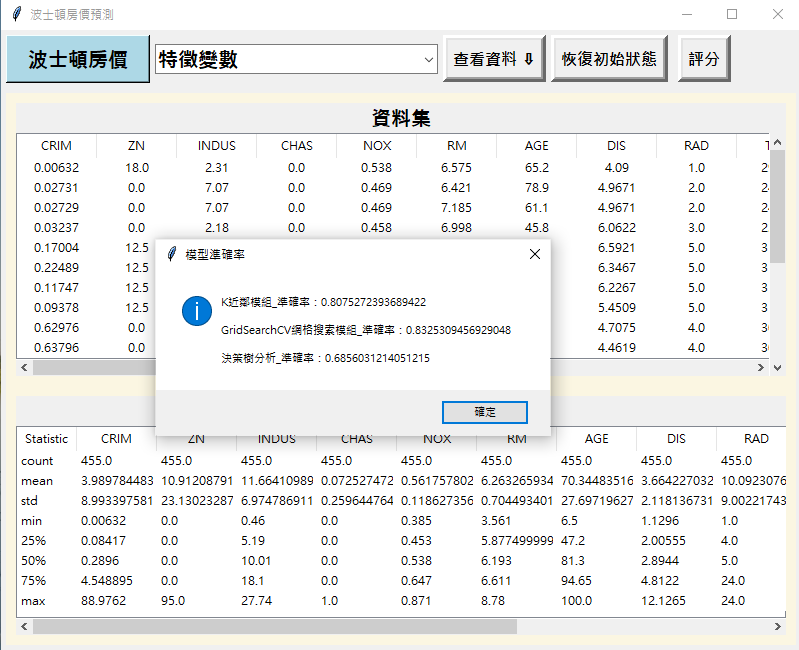
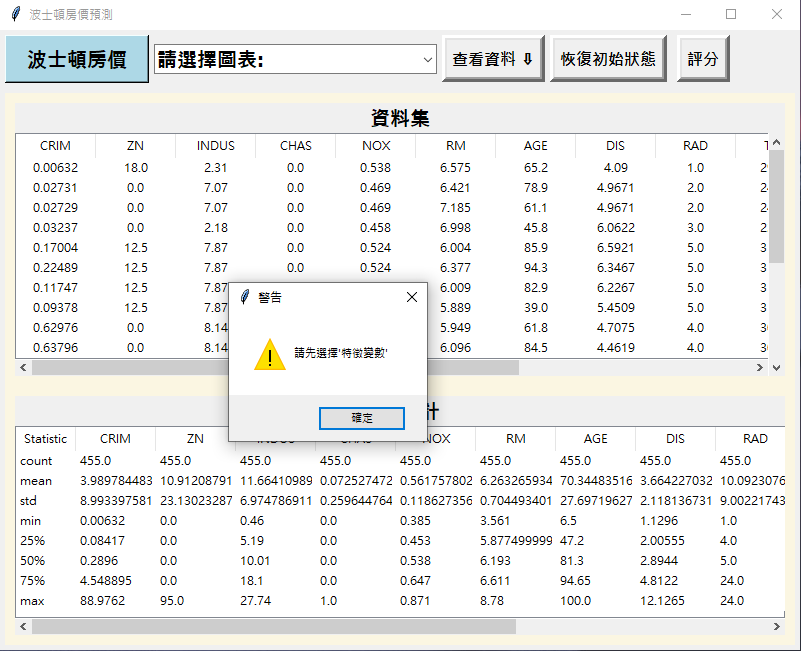
commit

diff --git a/model-evaluation/README.md b/model-evaluation/README.md
@@ -28,14 +28,14 @@
 峰度(Kurtosis): 0.07 
 ### 4.特徵變數，閾值最初設為 0.4 得到的特徵變數
 ![picture_1](./images/window_4.png)
-### 4_1.新增模型分數
-![picture_1](./images/window_4_1.png)
 ### 5.特徵變數，輸入閾值 0.51 得到特徵變數"RM"、"LSTAT"
 ![picture_1](./images/window_5.png)
-### 6.閾值為 0.51 模型分數
+### 6.未查看'特徵變數'則跳出提醒
 ![picture_1](./images/window_6.png)
-### 7.離開前提醒
+### 7.閾值為 0.51 模型符合與分數
 ![picture_1](./images/window_7.png)
+### 8.離開前提醒
+![picture_1](./images/window_8.png)
 
 ---
 
